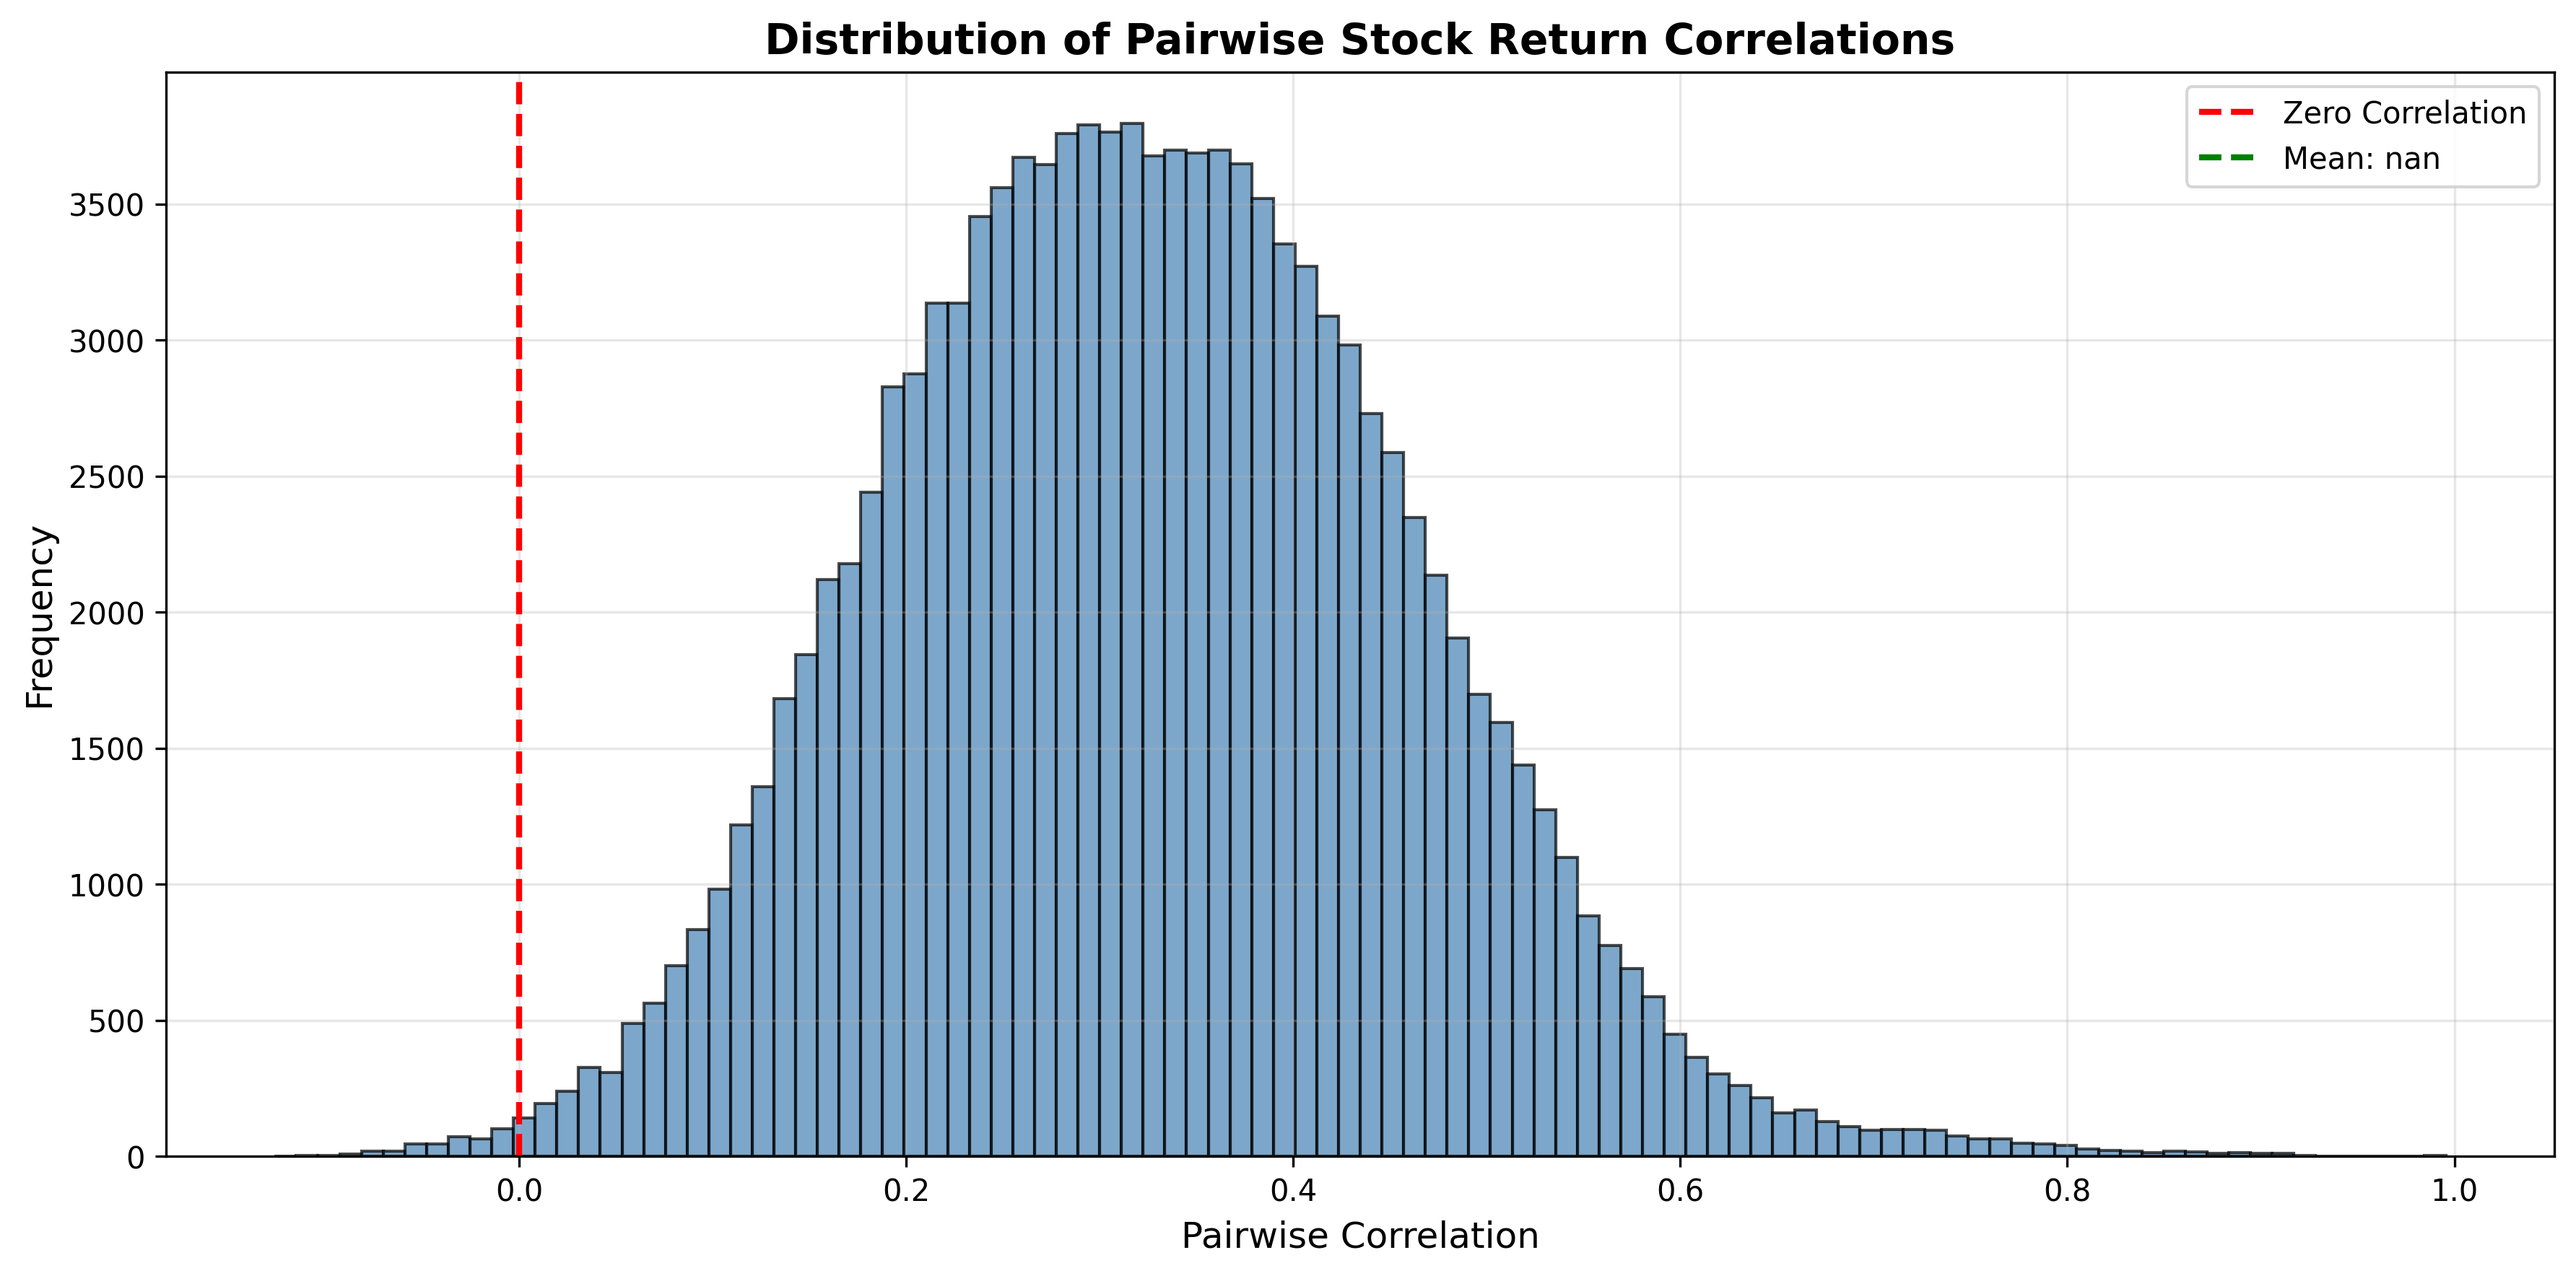
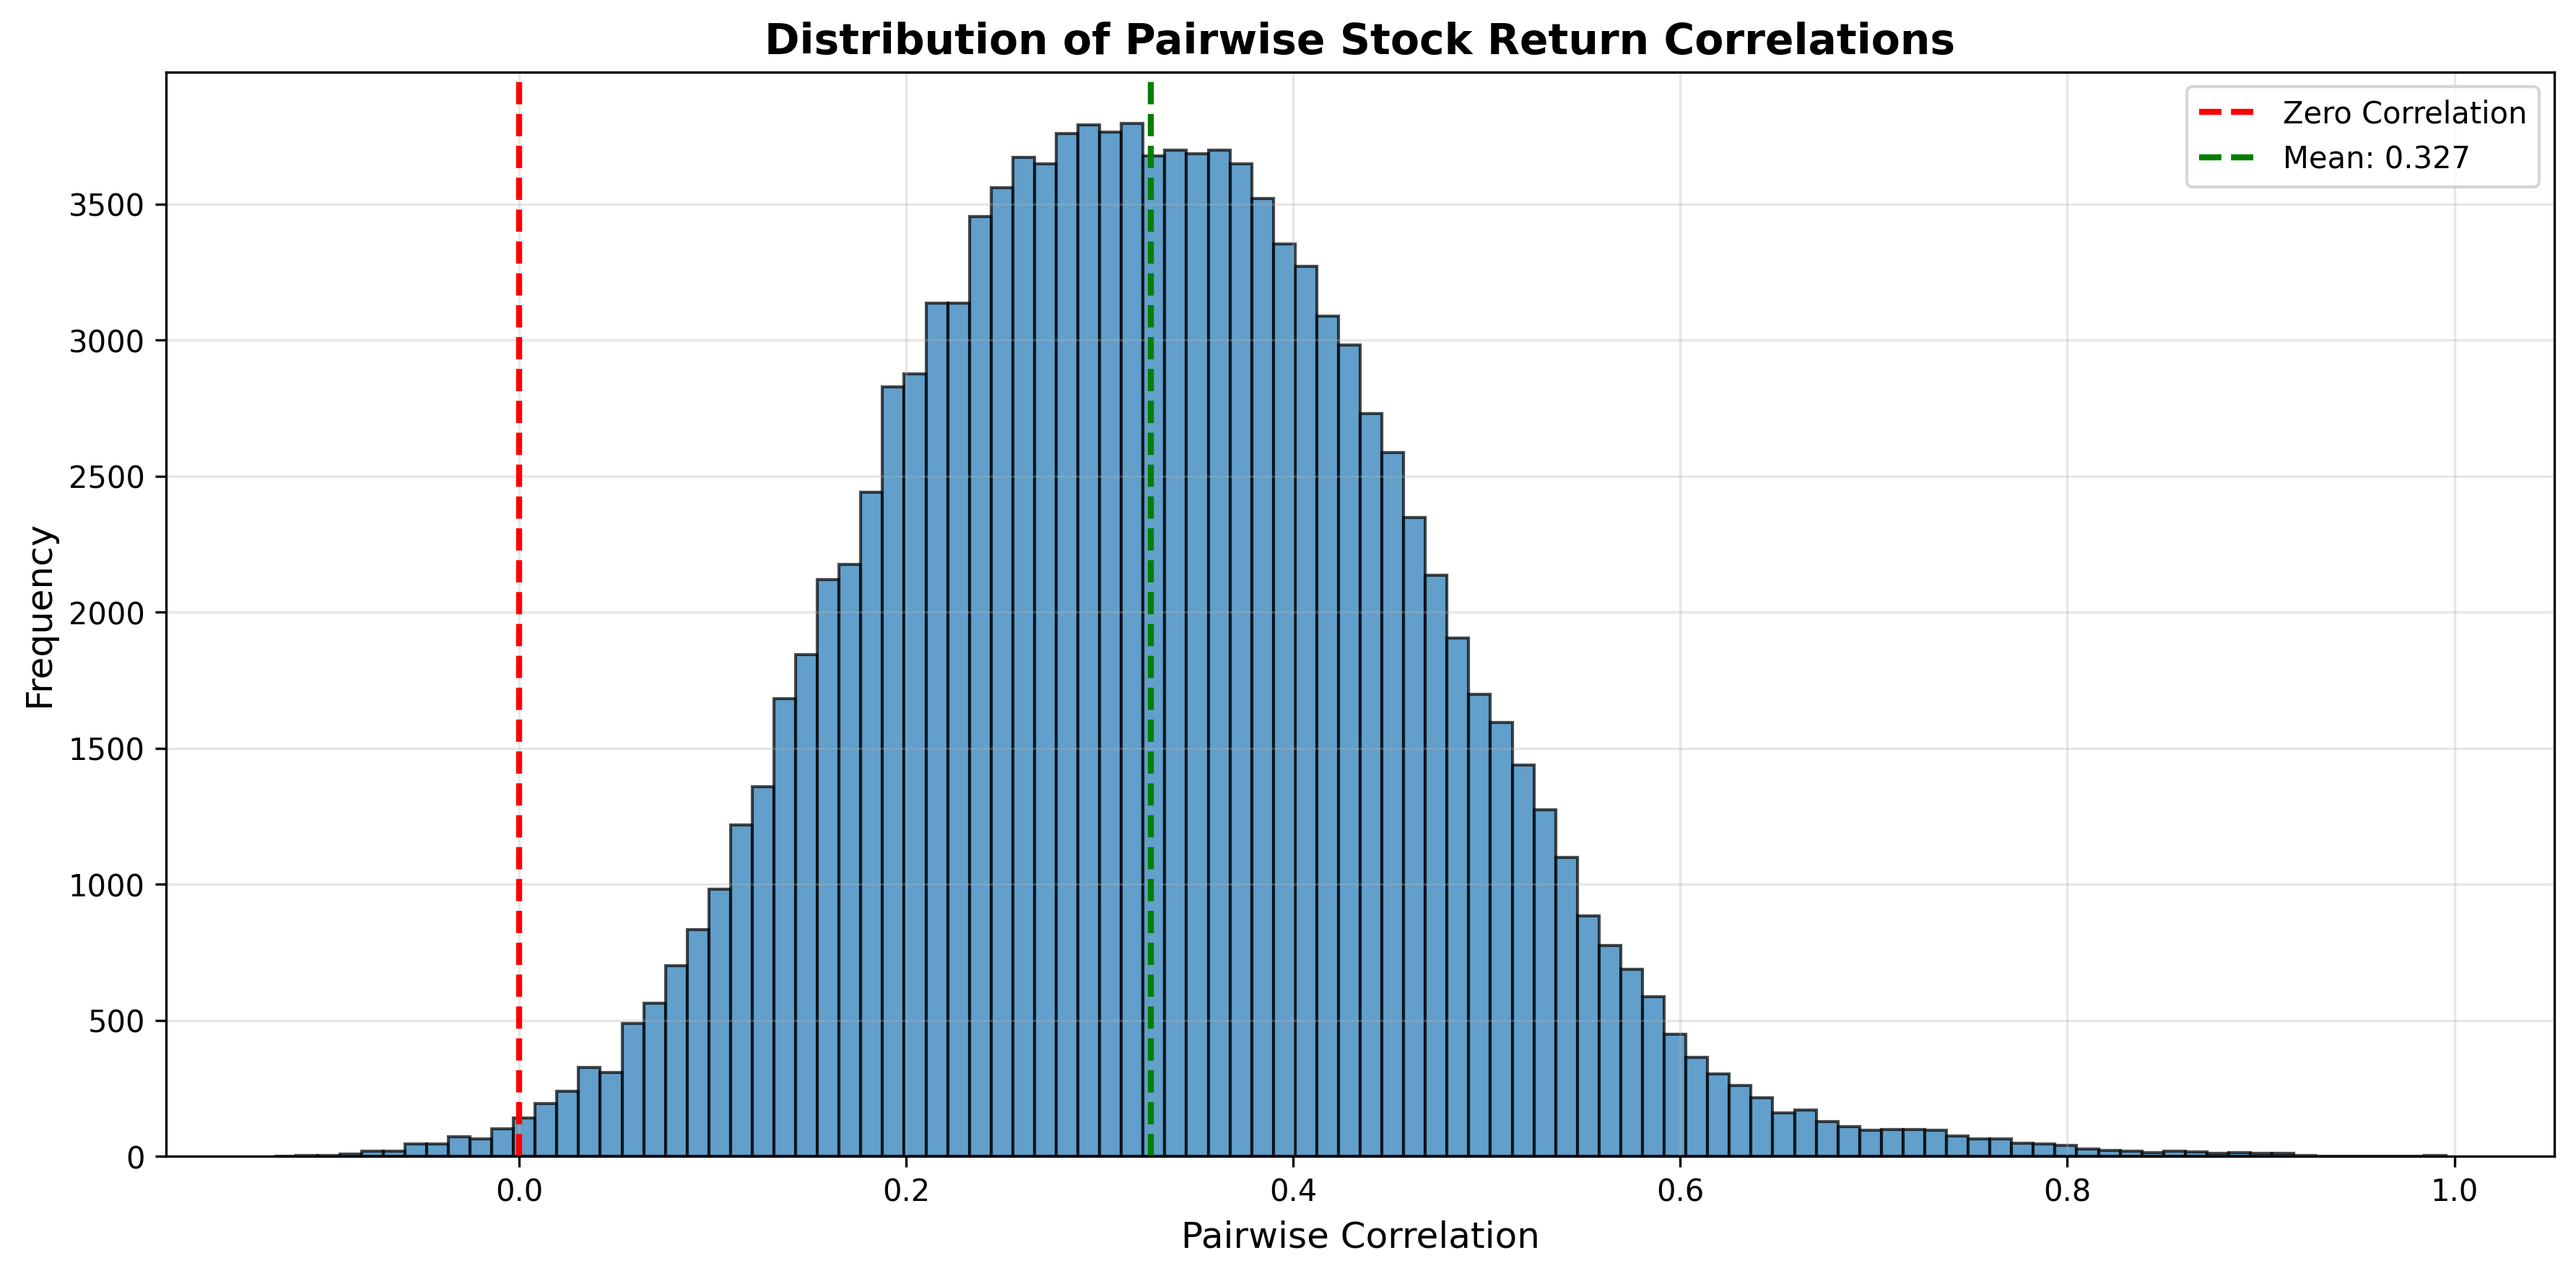
Fix pairwise correlation NaN issue and generate histogram

Changed region(s): [[0.1555, 0.0933, 0.8089, 0.9021], [0.9333, 0.0933, 0.9644, 0.1244]]

diff --git a/STA 160 Final Project.py b/STA 160 Final Project.py
@@ -268,51 +268,92 @@ plt.close()
 # - Mean correlation typically 0.3-0.6 (stocks move together, not independently)
 # - Distribution shifted right (more positive correlations than negative)
 # - This confirms market has structure suitable for network analysis
+# 4. Distribution of Pairwise Correlations
+# ----------------------------------------------------------------------------
 print("\n4. Creating distribution of pairwise correlations...")
-# Extract upper triangle of correlation matrix (excluding diagonal)
-# Why upper triangle? Correlation matrix is symmetric (corr(A,B) = corr(B,A))
-# and diagonal is always 1.0 (stock perfectly correlated with itself)
-# So we only need unique pairs: N*(N-1)/2 correlations instead of N*N
-mask = np.triu(np.ones_like(corr_matrix, dtype=bool), k=1)  # Upper triangle, skip diagonal
-pairwise_corrs = corr_matrix.where(mask).stack().values
-# Result: Array of all unique pairwise correlations (typically ~125,000 pairs for 500 stocks)
 
-plt.figure(figsize=(12, 6))
-plt.hist(pairwise_corrs, bins=100, edgecolor='black', alpha=0.7, color='steelblue')
-plt.xlabel('Pairwise Correlation', fontsize=12)
-plt.ylabel('Frequency', fontsize=12)
-plt.title('Distribution of Pairwise Stock Return Correlations', fontsize=14, fontweight='bold')
-plt.axvline(x=0, color='red', linestyle='--', linewidth=2, label='Zero Correlation')
-mean_corr = pairwise_corrs.mean()
-plt.axvline(x=mean_corr, color='green', linestyle='--', linewidth=2, 
-            label=f'Mean: {mean_corr:.3f}')
-plt.legend()
-plt.grid(True, alpha=0.3)
-plt.tight_layout()
-plt.savefig('distribution_pairwise_correlations.png', dpi=300, bbox_inches='tight')
-print("Saved: distribution_pairwise_correlations.png")
-plt.close()
-# Interpretation:
-# - If distribution is right-shifted (mean > 0): stocks generally move together
-# - Mean around 0.3-0.6: moderate positive correlation (market comovement)
-# - If mean near 0: stocks move independently (unlikely for S&P 500)
-# - Wide spread: some pairs highly correlated (same sector), others less so
+# Recompute correlation matrix (safe)
+corr_matrix = log_returns.corr()
 
-# Print correlation distribution statistics
-# What these numbers tell us:
-# - Mean: Average correlation between any two stocks (market-wide comovement)
-# - Median: Middle value (50% of pairs have correlation above this)
-# - Std Dev: How spread out correlations are (wide = diverse relationships)
-# - Min/Max: Most negatively and positively correlated pairs
-# - Percentiles: Distribution shape (e.g., 75th percentile = 75% of pairs below this)
-print("\nPairwise Correlation Statistics:")
-mean_val = pairwise_corrs.mean()
-median_val = np.median(pairwise_corrs)
-std_val = pairwise_corrs.std()
-min_val = pairwise_corrs.min()
-max_val = pairwise_corrs.max()
-p25 = np.percentile(pairwise_corrs, 25)
-p75 = np.percentile(pairwise_corrs, 75)
+# Convert to numpy array
+corr_values = corr_matrix.values
+
+# Extract upper triangle (exclude diagonal)
+n = corr_values.shape[0]
+pairwise_corrs = corr_values[np.triu_indices(n, k=1)]
+
+# Remove NaNs
+pairwise_corrs = pairwise_corrs[~np.isnan(pairwise_corrs)]
+
+print("Number of pairwise correlations:", len(pairwise_corrs))
+
+# Safety check
+if len(pairwise_corrs) == 0:
+    print("ERROR: No valid pairwise correlations found.")
+else:
+    # ------------------------------
+    # Create histogram
+    # ------------------------------
+    plt.figure(figsize=(12, 6))
+
+    plt.hist(pairwise_corrs,
+             bins=100,
+             edgecolor='black',
+             alpha=0.7)
+
+    plt.xlabel('Pairwise Correlation', fontsize=12)
+    plt.ylabel('Frequency', fontsize=12)
+    plt.title('Distribution of Pairwise Stock Return Correlations',
+              fontsize=14, fontweight='bold')
+
+    # Add zero line
+    plt.axvline(x=0,
+                color='red',
+                linestyle='--',
+                linewidth=2,
+                label='Zero Correlation')
+
+    # Add mean line
+    mean_corr = np.mean(pairwise_corrs)
+    plt.axvline(x=mean_corr,
+                color='green',
+                linestyle='--',
+                linewidth=2,
+                label=f'Mean: {mean_corr:.3f}')
+
+    plt.legend()
+    plt.grid(True, alpha=0.3)
+    plt.tight_layout()
+
+    plt.savefig('distribution_pairwise_correlations.png',
+                dpi=300,
+                bbox_inches='tight')
+
+    print("Saved: distribution_pairwise_correlations.png")
+    plt.close()
+
+    # ------------------------------
+    # Print statistics
+    # ------------------------------
+    print("\nPairwise Correlation Statistics:")
+
+    mean_val = np.mean(pairwise_corrs)
+    median_val = np.median(pairwise_corrs)
+    std_val = np.std(pairwise_corrs)
+    min_val = np.min(pairwise_corrs)
+    max_val = np.max(pairwise_corrs)
+    p25 = np.percentile(pairwise_corrs, 25)
+    p75 = np.percentile(pairwise_corrs, 75)
+
+    print(f"  Mean: {mean_val:.4f}")
+    print(f"  Median: {median_val:.4f}")
+    print(f"  Std Dev: {std_val:.4f}")
+    print(f"  Min: {min_val:.4f}")
+    print(f"  Max: {max_val:.4f}")
+    print(f"  25th percentile: {p25:.4f}")
+    print(f"  75th percentile: {p75:.4f}")
+
+
 print(f"  Mean: {mean_val:.4f}")  # Average correlation: typically 0.3-0.6 for S&P 500
 print(f"  Median: {median_val:.4f}")  # Middle value: shows if distribution is symmetric
 print(f"  Std Dev: {std_val:.4f}")  # Spread: higher = more diverse correlation patterns

diff --git a/run_instructions.md b/run_instructions.md
@@ -19,7 +19,7 @@ python3 -m pip install yfinance pandas numpy matplotlib seaborn requests
 Navigate to the project directory and run:
 
 ```bash
-cd /Users/shotaruo/STA-160-Final-Project
+cd /Users/shotaruo/STA-160-Final-Project #change the shotaruo to like your directory folder
 python3 "STA 160 Final Project.py"
 ```
 
